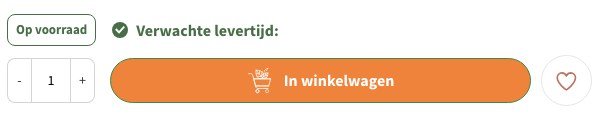
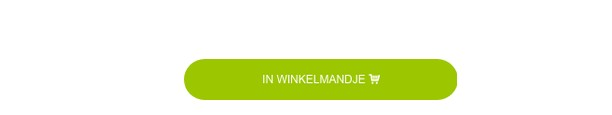
Use a confirmed invisible-focus example in the sample report; describe screen reader checks precisely
The previous sample screenshot came from a shop whose focus ring is thin but present,
so 'does not change at all' was not accurate for it.

diff --git a/docs/fr/index.html b/docs/fr/index.html
@@ -218,7 +218,7 @@ Merci !"
 <div class="about-text">
 <h2 id="about-h">Votre interlocuteur : Ivan Raylyan</h2>
 <p class="about-role">Engineering &amp; Delivery Manager · Bucarest, Roumanie</p>
-<p>Je dirige l&#x27;ingénierie et la livraison de plusieurs projets informatiques, du développement produit à l&#x27;externalisation. J&#x27;ai commencé dans la QA : d&#x27;abord les tests manuels, puis l&#x27;automatisation des tests avec Selenium, Cypress et Pytest.</p><p>Depuis plus de 6 ans, je travaille sur des produits SaaS dans des domaines très réglementés : juridique, conformité réglementaire et technologies financières. Là, chaque constat doit être prouvé et chaque mise en production doit tenir. Nous appliquons la même rigueur à votre boutique.</p><p>Chez EveryoneCanShop, nous confions les tâches répétitives à des agents d&#x27;IA. Pour votre audit, cela signifie que des tests assistés par l&#x27;IA couvrent rapidement chaque page, que nous parcourons le parcours d&#x27;achat étape par étape au clavier et avec un lecteur d&#x27;écran, et que je vérifie personnellement chaque constat et chaque rapport avant son envoi.</p>
+<p>Je dirige l&#x27;ingénierie et la livraison de plusieurs projets informatiques, du développement produit à l&#x27;externalisation. J&#x27;ai commencé dans la QA : d&#x27;abord les tests manuels, puis l&#x27;automatisation des tests avec Selenium, Cypress et Pytest.</p><p>Depuis plus de 6 ans, je travaille sur des produits SaaS dans des domaines très réglementés : juridique, conformité réglementaire et technologies financières. Là, chaque constat doit être prouvé et chaque mise en production doit tenir. Nous appliquons la même rigueur à votre boutique.</p><p>Chez EveryoneCanShop, nous confions les tâches répétitives à des agents d&#x27;IA. Pour votre audit, cela signifie que des tests assistés par l&#x27;IA couvrent rapidement chaque page, que nous parcourons le parcours d&#x27;achat étape par étape au clavier, que nous vérifions ce qu&#x27;un lecteur d&#x27;écran annonce pour chaque bouton, image et champ, et que je vérifie personnellement chaque constat et chaque rapport avant son envoi.</p>
 <blockquote><p>Vous avez la rapidité des tests automatisés et le jugement de quelqu&#x27;un qui pilote depuis des années des mises en production et la qualité.</p></blockquote>
 <h3 class="facts-h">En bref</h3>
 <ul class="ticks facts"><li><svg class="ico tick" viewBox="0 0 24 24" aria-hidden="true" focusable="false"><path d="M5 12.5l4.5 4.5L19 7.5" fill="none" stroke="currentColor" stroke-width="2" stroke-linecap="round" stroke-linejoin="round"/></svg><span>Engineering &amp; Delivery Manager</span></li><li><svg class="ico tick" viewBox="0 0 24 24" aria-hidden="true" focusable="false"><path d="M5 12.5l4.5 4.5L19 7.5" fill="none" stroke="currentColor" stroke-width="2" stroke-linecap="round" stroke-linejoin="round"/></svg><span>Débuts dans la QA : tests manuels, puis Selenium, Cypress, Pytest</span></li><li><svg class="ico tick" viewBox="0 0 24 24" aria-hidden="true" focusable="false"><path d="M5 12.5l4.5 4.5L19 7.5" fill="none" stroke="currentColor" stroke-width="2" stroke-linecap="round" stroke-linejoin="round"/></svg><span>Plus de 6 ans dans le SaaS très réglementé</span></li><li><svg class="ico tick" viewBox="0 0 24 24" aria-hidden="true" focusable="false"><path d="M5 12.5l4.5 4.5L19 7.5" fill="none" stroke="currentColor" stroke-width="2" stroke-linecap="round" stroke-linejoin="round"/></svg><span>Travaille chaque jour avec des agents d&#x27;IA</span></li></ul>

diff --git a/docs/de/index.html b/docs/de/index.html
@@ -218,7 +218,7 @@ Vielen Dank!"
 <div class="about-text">
 <h2 id="about-h">Ihr Ansprechpartner: Ivan Raylyan</h2>
 <p class="about-role">Engineering &amp; Delivery Manager · Bukarest, Rumänien</p>
-<p>Ich leite Engineering und Delivery in mehreren IT-Projekten, von Produktentwicklung bis Outsourcing. Angefangen habe ich in der Qualitätssicherung: zuerst manuelles Testen, dann Testautomatisierung mit Selenium, Cypress und Pytest.</p><p>Seit über 6 Jahren arbeite ich an SaaS-Produkten in Bereichen mit hohen Compliance-Anforderungen: Legal, Regulatory und Financial Tech. Dort muss jeder Befund belegt sein und jedes Release halten. Dieselbe Sorgfalt bringen wir in Ihren Shop.</p><p>Bei EveryoneCanShop übernehmen KI-Agenten die wiederkehrenden Aufgaben. Für Ihr Audit heißt das: KI-gestützte Tests decken schnell jede Seite ab, wir gehen den Kaufprozess Schritt für Schritt mit der Tastatur und mit Screenreader durch, und ich prüfe persönlich jeden Befund und jeden Bericht, bevor er rausgeht.</p>
+<p>Ich leite Engineering und Delivery in mehreren IT-Projekten, von Produktentwicklung bis Outsourcing. Angefangen habe ich in der Qualitätssicherung: zuerst manuelles Testen, dann Testautomatisierung mit Selenium, Cypress und Pytest.</p><p>Seit über 6 Jahren arbeite ich an SaaS-Produkten in Bereichen mit hohen Compliance-Anforderungen: Legal, Regulatory und Financial Tech. Dort muss jeder Befund belegt sein und jedes Release halten. Dieselbe Sorgfalt bringen wir in Ihren Shop.</p><p>Bei EveryoneCanShop übernehmen KI-Agenten die wiederkehrenden Aufgaben. Für Ihr Audit heißt das: KI-gestützte Tests decken schnell jede Seite ab, wir gehen den Kaufprozess Schritt für Schritt mit der Tastatur durch, prüfen, was ein Screenreader bei jeder Schaltfläche, jedem Bild und jedem Feld ansagt, und ich prüfe persönlich jeden Befund und jeden Bericht, bevor er rausgeht.</p>
 <blockquote><p>Sie bekommen das Tempo automatisierter Tests und das Urteil von jemandem, der seit Jahren Releases und Qualität verantwortet.</p></blockquote>
 <h3 class="facts-h">Kurz gesagt</h3>
 <ul class="ticks facts"><li><svg class="ico tick" viewBox="0 0 24 24" aria-hidden="true" focusable="false"><path d="M5 12.5l4.5 4.5L19 7.5" fill="none" stroke="currentColor" stroke-width="2" stroke-linecap="round" stroke-linejoin="round"/></svg><span>Engineering &amp; Delivery Manager</span></li><li><svg class="ico tick" viewBox="0 0 24 24" aria-hidden="true" focusable="false"><path d="M5 12.5l4.5 4.5L19 7.5" fill="none" stroke="currentColor" stroke-width="2" stroke-linecap="round" stroke-linejoin="round"/></svg><span>Start in der QA: manuelles Testen, dann Selenium, Cypress, Pytest</span></li><li><svg class="ico tick" viewBox="0 0 24 24" aria-hidden="true" focusable="false"><path d="M5 12.5l4.5 4.5L19 7.5" fill="none" stroke="currentColor" stroke-width="2" stroke-linecap="round" stroke-linejoin="round"/></svg><span>6+ Jahre in SaaS mit hohen Compliance-Anforderungen</span></li><li><svg class="ico tick" viewBox="0 0 24 24" aria-hidden="true" focusable="false"><path d="M5 12.5l4.5 4.5L19 7.5" fill="none" stroke="currentColor" stroke-width="2" stroke-linecap="round" stroke-linejoin="round"/></svg><span>Arbeitet täglich mit KI-Agenten</span></li></ul>

diff --git a/docs/nl/index.html b/docs/nl/index.html
@@ -218,7 +218,7 @@ Bedankt!"
 <div class="about-text">
 <h2 id="about-h">Je contactpersoon: Ivan Raylyan</h2>
 <p class="about-role">Engineering &amp; Delivery Manager · Boekarest, Roemenië</p>
-<p>Ik leid engineering en delivery in meerdere IT-projecten, van productontwikkeling tot outsourcing. Ik ben begonnen in QA: eerst handmatig testen, daarna testautomatisering met Selenium, Cypress en Pytest.</p><p>Al meer dan 6 jaar werk ik aan SaaS-producten in sectoren waar compliance centraal staat: legal, regulatory en financial tech. Daar moet elke bevinding onderbouwd zijn en moet elke release kloppen. Diezelfde discipline brengen we mee naar jouw webshop.</p><p>Bij EveryoneCanShop zetten we AI-agents in voor het terugkerende werk. Voor jouw audit betekent dat: AI-ondersteund testen dekt snel elke pagina af, we lopen de bestelroute stap voor stap door met het toetsenbord en controleren hem met een schermlezer, en ik controleer persoonlijk elke bevinding en elk rapport voordat het de deur uitgaat.</p>
+<p>Ik leid engineering en delivery in meerdere IT-projecten, van productontwikkeling tot outsourcing. Ik ben begonnen in QA: eerst handmatig testen, daarna testautomatisering met Selenium, Cypress en Pytest.</p><p>Al meer dan 6 jaar werk ik aan SaaS-producten in sectoren waar compliance centraal staat: legal, regulatory en financial tech. Daar moet elke bevinding onderbouwd zijn en moet elke release kloppen. Diezelfde discipline brengen we mee naar jouw webshop.</p><p>Bij EveryoneCanShop zetten we AI-agents in voor het terugkerende werk. Voor jouw audit betekent dat: AI-ondersteund testen dekt snel elke pagina af, we lopen de bestelroute stap voor stap door met het toetsenbord, controleren wat een schermlezer bij elke knop, afbeelding en elk veld voorleest, en ik controleer persoonlijk elke bevinding en elk rapport voordat het de deur uitgaat.</p>
 <blockquote><p>Je krijgt de snelheid van geautomatiseerd testen en het oordeel van iemand die al jaren releases en kwaliteit bewaakt.</p></blockquote>
 <h3 class="facts-h">In het kort</h3>
 <ul class="ticks facts"><li><svg class="ico tick" viewBox="0 0 24 24" aria-hidden="true" focusable="false"><path d="M5 12.5l4.5 4.5L19 7.5" fill="none" stroke="currentColor" stroke-width="2" stroke-linecap="round" stroke-linejoin="round"/></svg><span>Engineering &amp; Delivery Manager</span></li><li><svg class="ico tick" viewBox="0 0 24 24" aria-hidden="true" focusable="false"><path d="M5 12.5l4.5 4.5L19 7.5" fill="none" stroke="currentColor" stroke-width="2" stroke-linecap="round" stroke-linejoin="round"/></svg><span>Begonnen in QA: handmatig testen, daarna Selenium, Cypress, Pytest</span></li><li><svg class="ico tick" viewBox="0 0 24 24" aria-hidden="true" focusable="false"><path d="M5 12.5l4.5 4.5L19 7.5" fill="none" stroke="currentColor" stroke-width="2" stroke-linecap="round" stroke-linejoin="round"/></svg><span>6+ jaar in SaaS met strenge compliance-eisen</span></li><li><svg class="ico tick" viewBox="0 0 24 24" aria-hidden="true" focusable="false"><path d="M5 12.5l4.5 4.5L19 7.5" fill="none" stroke="currentColor" stroke-width="2" stroke-linecap="round" stroke-linejoin="round"/></svg><span>Werkt dagelijks met AI-agents</span></li></ul>

diff --git a/docs/index.html b/docs/index.html
@@ -218,7 +218,7 @@ Thank you!"
 <div class="about-text">
 <h2 id="about-h">Your contact: Ivan Raylyan</h2>
 <p class="about-role">Engineering &amp; Delivery Manager · Bucharest, Romania</p>
-<p>I lead engineering and delivery across several IT projects, from product development to outsourcing. I started in QA: manual testing first, then test automation with Selenium, Cypress and Pytest.</p><p>For more than 6 years I have worked on SaaS products in compliance-heavy fields: legal, regulatory and financial tech. There, every finding needs evidence and every release has to hold up. We bring the same discipline to your shop.</p><p>At EveryoneCanShop we use AI agents for the repetitive work. For your audit that means AI-assisted testing covers every page quickly, we walk the purchase path step by step with the keyboard and check it with a screen reader, and I personally review every finding and every report before it goes out.</p>
+<p>I lead engineering and delivery across several IT projects, from product development to outsourcing. I started in QA: manual testing first, then test automation with Selenium, Cypress and Pytest.</p><p>For more than 6 years I have worked on SaaS products in compliance-heavy fields: legal, regulatory and financial tech. There, every finding needs evidence and every release has to hold up. We bring the same discipline to your shop.</p><p>At EveryoneCanShop we use AI agents for the repetitive work. For your audit that means AI-assisted testing covers every page quickly, we walk the purchase path step by step with the keyboard, check what a screen reader announces for every button, image and field, and I personally review every finding and every report before it goes out.</p>
 <blockquote><p>You get the speed of automated testing and the judgement of someone who has run releases and quality for years.</p></blockquote>
 <h3 class="facts-h">In short</h3>
 <ul class="ticks facts"><li><svg class="ico tick" viewBox="0 0 24 24" aria-hidden="true" focusable="false"><path d="M5 12.5l4.5 4.5L19 7.5" fill="none" stroke="currentColor" stroke-width="2" stroke-linecap="round" stroke-linejoin="round"/></svg><span>Engineering &amp; Delivery Manager</span></li><li><svg class="ico tick" viewBox="0 0 24 24" aria-hidden="true" focusable="false"><path d="M5 12.5l4.5 4.5L19 7.5" fill="none" stroke="currentColor" stroke-width="2" stroke-linecap="round" stroke-linejoin="round"/></svg><span>Started in QA: manual testing, then Selenium, Cypress, Pytest</span></li><li><svg class="ico tick" viewBox="0 0 24 24" aria-hidden="true" focusable="false"><path d="M5 12.5l4.5 4.5L19 7.5" fill="none" stroke="currentColor" stroke-width="2" stroke-linecap="round" stroke-linejoin="round"/></svg><span>6+ years in compliance-heavy SaaS</span></li><li><svg class="ico tick" viewBox="0 0 24 24" aria-hidden="true" focusable="false"><path d="M5 12.5l4.5 4.5L19 7.5" fill="none" stroke="currentColor" stroke-width="2" stroke-linecap="round" stroke-linejoin="round"/></svg><span>Works with AI agents every day</span></li></ul>

diff --git a/docs/style.css b/docs/style.css
@@ -181,8 +181,8 @@ pre { margin: 0; background: var(--ink); color: #f1f4f6; border-radius: 10px; pa
 .shot { margin: 0 0 20px; }
 .shot-frame { position: relative; border: 1px solid var(--line-2); border-radius: 12px; overflow: hidden; background: #fff; box-shadow: var(--shadow-sm); }
 .shot-frame img { display: block; width: 100%; }
-.shot-ring { position: absolute; left: 17.2%; top: 47%; width: 70.4%; height: 45%; border: 3px dashed var(--bad); border-radius: 999px; }
-.shot-tag { position: absolute; left: 18%; top: 8%; background: var(--bad); color: #fff; font-size: 12.5px; font-weight: 750; padding: 3px 9px; border-radius: 6px; line-height: 1.4; }
+.shot-ring { position: absolute; left: 28.6%; top: 44%; width: 47.8%; height: 50%; border: 3px dashed var(--bad); border-radius: 999px; }
+.shot-tag { position: absolute; left: 29%; top: 6%; background: var(--bad); color: #fff; font-size: 12.5px; font-weight: 750; padding: 3px 9px; border-radius: 6px; line-height: 1.4; }
 .sr-demo { display: flex; gap: 18px; align-items: center; background: var(--paper); border: 1px solid var(--line); border-radius: 12px; padding: 16px; margin: 0 0 20px; }
 .mock { display: flex; gap: 8px; flex: none; }
 .sw { width: 40px; height: 40px; border-radius: 10px; border: 1px solid rgba(0, 0, 0, .15); }

diff --git a/src/style.css b/src/style.css
@@ -181,8 +181,8 @@ pre { margin: 0; background: var(--ink); color: #f1f4f6; border-radius: 10px; pa
 .shot { margin: 0 0 20px; }
 .shot-frame { position: relative; border: 1px solid var(--line-2); border-radius: 12px; overflow: hidden; background: #fff; box-shadow: var(--shadow-sm); }
 .shot-frame img { display: block; width: 100%; }
-.shot-ring { position: absolute; left: 17.2%; top: 47%; width: 70.4%; height: 45%; border: 3px dashed var(--bad); border-radius: 999px; }
-.shot-tag { position: absolute; left: 18%; top: 8%; background: var(--bad); color: #fff; font-size: 12.5px; font-weight: 750; padding: 3px 9px; border-radius: 6px; line-height: 1.4; }
+.shot-ring { position: absolute; left: 28.6%; top: 44%; width: 47.8%; height: 50%; border: 3px dashed var(--bad); border-radius: 999px; }
+.shot-tag { position: absolute; left: 29%; top: 6%; background: var(--bad); color: #fff; font-size: 12.5px; font-weight: 750; padding: 3px 9px; border-radius: 6px; line-height: 1.4; }
 .sr-demo { display: flex; gap: 18px; align-items: center; background: var(--paper); border: 1px solid var(--line); border-radius: 12px; padding: 16px; margin: 0 0 20px; }
 .mock { display: flex; gap: 8px; flex: none; }
 .sw { width: 40px; height: 40px; border-radius: 10px; border: 1px solid rgba(0, 0, 0, .15); }

diff --git a/content.py b/content.py
@@ -178,7 +178,7 @@ T["en"] = {
     "who_p": [
         "I lead engineering and delivery across several IT projects, from product development to outsourcing. I started in QA: manual testing first, then test automation with Selenium, Cypress and Pytest.",
         "For more than 6 years I have worked on SaaS products in compliance-heavy fields: legal, regulatory and financial tech. There, every finding needs evidence and every release has to hold up. We bring the same discipline to your shop.",
-        "At EveryoneCanShop we use AI agents for the repetitive work. For your audit that means AI-assisted testing covers every page quickly, we walk the purchase path step by step with the keyboard and check it with a screen reader, and I personally review every finding and every report before it goes out.",
+        "At EveryoneCanShop we use AI agents for the repetitive work. For your audit that means AI-assisted testing covers every page quickly, we walk the purchase path step by step with the keyboard, check what a screen reader announces for every button, image and field, and I personally review every finding and every report before it goes out.",
     ],
     "who_facts_label": "In short",
     "who_facts": [
@@ -383,7 +383,7 @@ T["nl"] = {
     "who_p": [
         "Ik leid engineering en delivery in meerdere IT-projecten, van productontwikkeling tot outsourcing. Ik ben begonnen in QA: eerst handmatig testen, daarna testautomatisering met Selenium, Cypress en Pytest.",
         "Al meer dan 6 jaar werk ik aan SaaS-producten in sectoren waar compliance centraal staat: legal, regulatory en financial tech. Daar moet elke bevinding onderbouwd zijn en moet elke release kloppen. Diezelfde discipline brengen we mee naar jouw webshop.",
-        "Bij EveryoneCanShop zetten we AI-agents in voor het terugkerende werk. Voor jouw audit betekent dat: AI-ondersteund testen dekt snel elke pagina af, we lopen de bestelroute stap voor stap door met het toetsenbord en controleren hem met een schermlezer, en ik controleer persoonlijk elke bevinding en elk rapport voordat het de deur uitgaat.",
+        "Bij EveryoneCanShop zetten we AI-agents in voor het terugkerende werk. Voor jouw audit betekent dat: AI-ondersteund testen dekt snel elke pagina af, we lopen de bestelroute stap voor stap door met het toetsenbord, controleren wat een schermlezer bij elke knop, afbeelding en elk veld voorleest, en ik controleer persoonlijk elke bevinding en elk rapport voordat het de deur uitgaat.",
     ],
     "who_facts_label": "In het kort",
     "who_facts": [
@@ -584,7 +584,7 @@ T["fr"] = {
     "who_p": [
         "Je dirige l'ingénierie et la livraison de plusieurs projets informatiques, du développement produit à l'externalisation. J'ai commencé dans la QA : d'abord les tests manuels, puis l'automatisation des tests avec Selenium, Cypress et Pytest.",
         "Depuis plus de 6 ans, je travaille sur des produits SaaS dans des domaines très réglementés : juridique, conformité réglementaire et technologies financières. Là, chaque constat doit être prouvé et chaque mise en production doit tenir. Nous appliquons la même rigueur à votre boutique.",
-        "Chez EveryoneCanShop, nous confions les tâches répétitives à des agents d'IA. Pour votre audit, cela signifie que des tests assistés par l'IA couvrent rapidement chaque page, que nous parcourons le parcours d'achat étape par étape au clavier et avec un lecteur d'écran, et que je vérifie personnellement chaque constat et chaque rapport avant son envoi.",
+        "Chez EveryoneCanShop, nous confions les tâches répétitives à des agents d'IA. Pour votre audit, cela signifie que des tests assistés par l'IA couvrent rapidement chaque page, que nous parcourons le parcours d'achat étape par étape au clavier, que nous vérifions ce qu'un lecteur d'écran annonce pour chaque bouton, image et champ, et que je vérifie personnellement chaque constat et chaque rapport avant son envoi.",
     ],
     "who_facts_label": "En bref",
     "who_facts": [
@@ -785,7 +785,7 @@ T["de"] = {
     "who_p": [
         "Ich leite Engineering und Delivery in mehreren IT-Projekten, von Produktentwicklung bis Outsourcing. Angefangen habe ich in der Qualitätssicherung: zuerst manuelles Testen, dann Testautomatisierung mit Selenium, Cypress und Pytest.",
         "Seit über 6 Jahren arbeite ich an SaaS-Produkten in Bereichen mit hohen Compliance-Anforderungen: Legal, Regulatory und Financial Tech. Dort muss jeder Befund belegt sein und jedes Release halten. Dieselbe Sorgfalt bringen wir in Ihren Shop.",
-        "Bei EveryoneCanShop übernehmen KI-Agenten die wiederkehrenden Aufgaben. Für Ihr Audit heißt das: KI-gestützte Tests decken schnell jede Seite ab, wir gehen den Kaufprozess Schritt für Schritt mit der Tastatur und mit Screenreader durch, und ich prüfe persönlich jeden Befund und jeden Bericht, bevor er rausgeht.",
+        "Bei EveryoneCanShop übernehmen KI-Agenten die wiederkehrenden Aufgaben. Für Ihr Audit heißt das: KI-gestützte Tests decken schnell jede Seite ab, wir gehen den Kaufprozess Schritt für Schritt mit der Tastatur durch, prüfen, was ein Screenreader bei jeder Schaltfläche, jedem Bild und jedem Feld ansagt, und ich prüfe persönlich jeden Befund und jeden Bericht, bevor er rausgeht.",
     ],
     "who_facts_label": "Kurz gesagt",
     "who_facts": [
